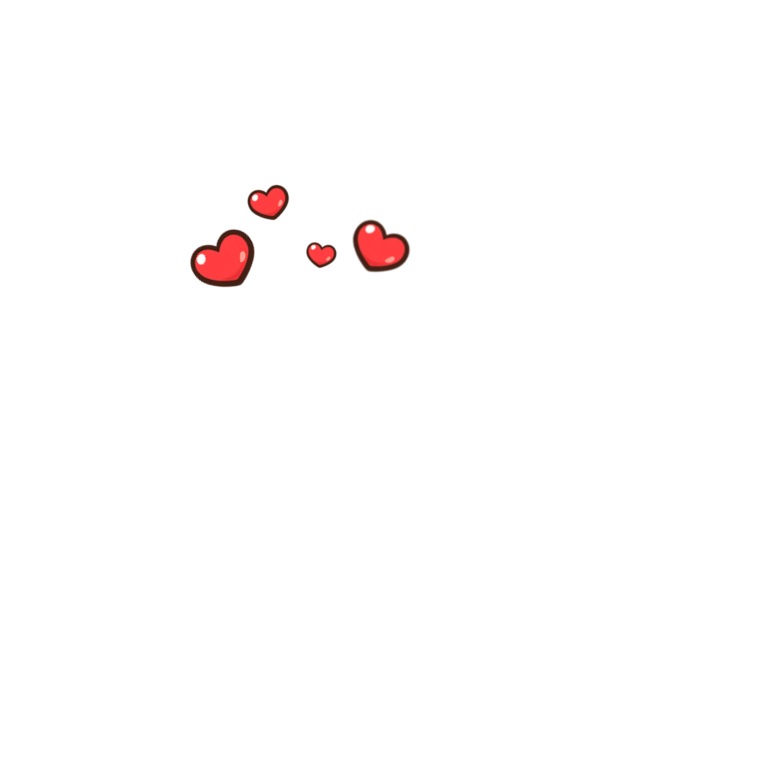
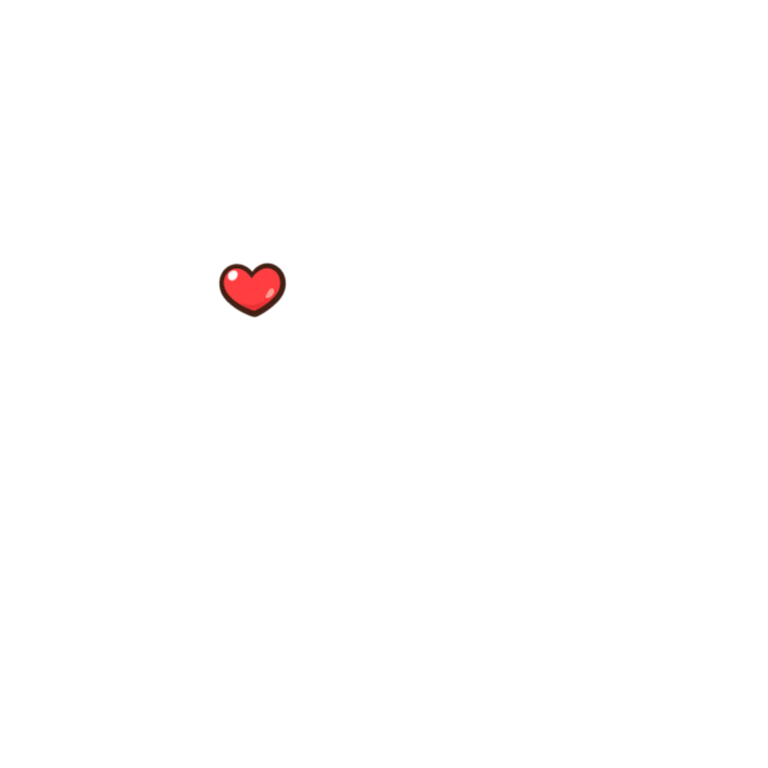
feat：爱心离子效果

Changed region(s): [[0.25, 0.2188, 0.375, 0.4375], [0.375, 0.2812, 0.5312, 0.375]]

diff --git a/src/pet/createPet.js b/src/pet/createPet.js
@@ -84,14 +84,24 @@ const SPEECH_PROFILES = Object.freeze({
   },
 });
 const BURST_EFFECTS = new Set(["love1"]);
+const LOVE_PARTICLE_SIZE_SCALE = 0.42;
+const LOVE_PARTICLE_CROP_FALLBACK = Object.freeze({
+  canvasWidth: 768,
+  canvasHeight: 768,
+  x: 217,
+  y: 261,
+  width: 75,
+  height: 58,
+});
 const LOVE_PARTICLE_BLUEPRINTS = Object.freeze([
-  { x: 46, y: 28, drift: -26, rise: -74, size: 76, delay: 0, scale: 0.92, rotateStart: -8, rotateEnd: -36 },
-  { x: 52, y: 24, drift: -8, rise: -92, size: 68, delay: 40, scale: 0.82, rotateStart: 10, rotateEnd: 28 },
-  { x: 59, y: 29, drift: 24, rise: -80, size: 74, delay: 70, scale: 0.9, rotateStart: 6, rotateEnd: 34 },
-  { x: 49, y: 35, drift: -36, rise: -58, size: 62, delay: 120, scale: 0.74, rotateStart: -18, rotateEnd: -44 },
-  { x: 56, y: 35, drift: 34, rise: -64, size: 64, delay: 150, scale: 0.78, rotateStart: 18, rotateEnd: 48 },
-  { x: 53, y: 30, drift: 6, rise: -70, size: 58, delay: 190, scale: 0.7, rotateStart: -4, rotateEnd: 18 },
+  { x: 41, y: 51, drift: -26, rise: -66, size: 76, delay: 0, scale: 0.92, rotateStart: -8, rotateEnd: -36 },
+  { x: 47, y: 47, drift: -8, rise: -78, size: 68, delay: 40, scale: 0.82, rotateStart: 10, rotateEnd: 28 },
+  { x: 54, y: 52, drift: 24, rise: -68, size: 74, delay: 70, scale: 0.9, rotateStart: 6, rotateEnd: 34 },
+  { x: 44, y: 56, drift: -36, rise: -50, size: 62, delay: 120, scale: 0.74, rotateStart: -18, rotateEnd: -44 },
+  { x: 51, y: 56, drift: 34, rise: -54, size: 64, delay: 150, scale: 0.78, rotateStart: 18, rotateEnd: 48 },
+  { x: 48, y: 53, drift: 6, rise: -58, size: 58, delay: 190, scale: 0.7, rotateStart: -4, rotateEnd: 18 },
 ]);
+const alphaBoundsCache = new Map();
 
 function createPetState() {
   return {
@@ -470,10 +480,16 @@ export function createPet(options = {}) {
     }
   }
 
-  function spawnLoveParticles(src) {
+  async function spawnLoveParticles(src) {
     const host = dom.effectBursts || dom.scene;
 
     if (!host || !src) {
+      return;
+    }
+
+    const crop = await getImageAlphaBounds(src);
+
+    if (!host.isConnected) {
       return;
     }
 
@@ -492,9 +508,25 @@ export function createPet(options = {}) {
       element.style.setProperty("--love-y", `${particle.y + randomBetween(-2, 2)}%`);
       element.style.setProperty("--love-drift", `${particle.drift + randomBetween(-8, 8)}px`);
       element.style.setProperty("--love-rise", `${particle.rise + randomBetween(-10, 6)}px`);
-      element.style.setProperty("--love-size", `${particle.size + randomBetween(-6, 5)}px`);
+      element.style.setProperty(
+        "--love-size",
+        `${((particle.size + randomBetween(-6, 5)) * LOVE_PARTICLE_SIZE_SCALE).toFixed(2)}px`
+      );
       element.style.setProperty("--love-duration", `${duration}ms`);
       element.style.setProperty("--love-delay", `${delay}ms`);
+      element.style.setProperty("--love-crop-ratio", `${crop.width} / ${crop.height}`);
+      element.style.setProperty(
+        "--love-image-width",
+        `${((crop.canvasWidth / crop.width) * 100).toFixed(2)}%`
+      );
+      element.style.setProperty(
+        "--love-image-left",
+        `${((-crop.x / crop.width) * 100).toFixed(2)}%`
+      );
+      element.style.setProperty(
+        "--love-image-top",
+        `${((-crop.y / crop.height) * 100).toFixed(2)}%`
+      );
       element.style.setProperty("--love-start-scale", Math.max(0.38, scale * 0.58).toFixed(2));
       element.style.setProperty("--love-end-scale", Math.max(0.54, scale * 0.98).toFixed(2));
       element.style.setProperty(
@@ -1456,6 +1488,78 @@ function resolveEffectName(effects, preferred, fallback) {
 
 function isBurstEffect(effectName) {
   return BURST_EFFECTS.has(effectName);
+}
+
+function getImageAlphaBounds(src) {
+  if (alphaBoundsCache.has(src)) {
+    return alphaBoundsCache.get(src);
+  }
+
+  const boundsPromise = measureImageAlphaBounds(src).catch(() => LOVE_PARTICLE_CROP_FALLBACK);
+  alphaBoundsCache.set(src, boundsPromise);
+  return boundsPromise;
+}
+
+async function measureImageAlphaBounds(src) {
+  const image = await loadImageElement(src);
+  const width = image.naturalWidth || image.width;
+  const height = image.naturalHeight || image.height;
+
+  if (!width || !height) {
+    throw new Error(`Cannot measure transparent bounds: ${src}`);
+  }
+
+  const canvas = document.createElement("canvas");
+  canvas.width = width;
+  canvas.height = height;
+  const context = canvas.getContext("2d", { willReadFrequently: true });
+
+  if (!context) {
+    throw new Error("Cannot read love particle image pixels.");
+  }
+
+  context.drawImage(image, 0, 0);
+  const { data } = context.getImageData(0, 0, width, height);
+  let minX = width;
+  let minY = height;
+  let maxX = -1;
+  let maxY = -1;
+
+  for (let index = 3; index < data.length; index += 4) {
+    if (data[index] === 0) {
+      continue;
+    }
+
+    const pixel = (index - 3) / 4;
+    const x = pixel % width;
+    const y = Math.floor(pixel / width);
+    minX = Math.min(minX, x);
+    minY = Math.min(minY, y);
+    maxX = Math.max(maxX, x);
+    maxY = Math.max(maxY, y);
+  }
+
+  if (maxX < 0 || maxY < 0) {
+    throw new Error(`No visible pixels found: ${src}`);
+  }
+
+  return {
+    canvasWidth: width,
+    canvasHeight: height,
+    x: minX,
+    y: minY,
+    width: maxX - minX + 1,
+    height: maxY - minY + 1,
+  };
+}
+
+function loadImageElement(src) {
+  return new Promise((resolve, reject) => {
+    const image = new Image();
+    image.onload = () => resolve(image);
+    image.onerror = () => reject(new Error(`Failed to measure asset: ${src}`));
+    image.src = src;
+  });
 }
 
 function getSpeechProfile(mode) {

diff --git a/src/pet/styles.css b/src/pet/styles.css
@@ -140,7 +140,7 @@
   left: var(--love-x, 52%);
   display: block;
   width: var(--love-size, 70px);
-  aspect-ratio: 222 / 105;
+  aspect-ratio: var(--love-crop-ratio, 75 / 58);
   overflow: hidden;
   opacity: 0;
   transform: translate(-50%, -50%) scale(var(--love-start-scale, 0.5))
@@ -153,10 +153,10 @@
 
 .pet__love-particle-image {
   position: absolute;
-  top: -175.24%;
-  left: -85.14%;
+  top: var(--love-image-top, -450%);
+  left: var(--love-image-left, -289.33%);
   display: block;
-  width: 345.95%;
+  width: var(--love-image-width, 1024%);
   height: auto;
   max-width: none;
   user-select: none;

diff --git a/src/pet/constants.js b/src/pet/constants.js
@@ -31,7 +31,7 @@ export const SLEEP_BUBBLE_ENTER_DURATION = 720;
 export const SLEEP_BUBBLE_POP_FRAME_INTERVAL = 80;
 export const SLEEP_BUBBLE_POP_DURATION = 440;
 export const SLEEP_RECOVERY_DELAY = 1500;
-export const EYE_FOLLOW_LIMITS = { x: 3, y: 2 };
+export const EYE_FOLLOW_LIMITS = { x: 2.1, y: 1.35 };
 export const HEAD_FOLLOW_LIMITS = { x: 1, y: 1, rotate: 1 };
 export const FOLLOW_LERP = 0.16;
 
